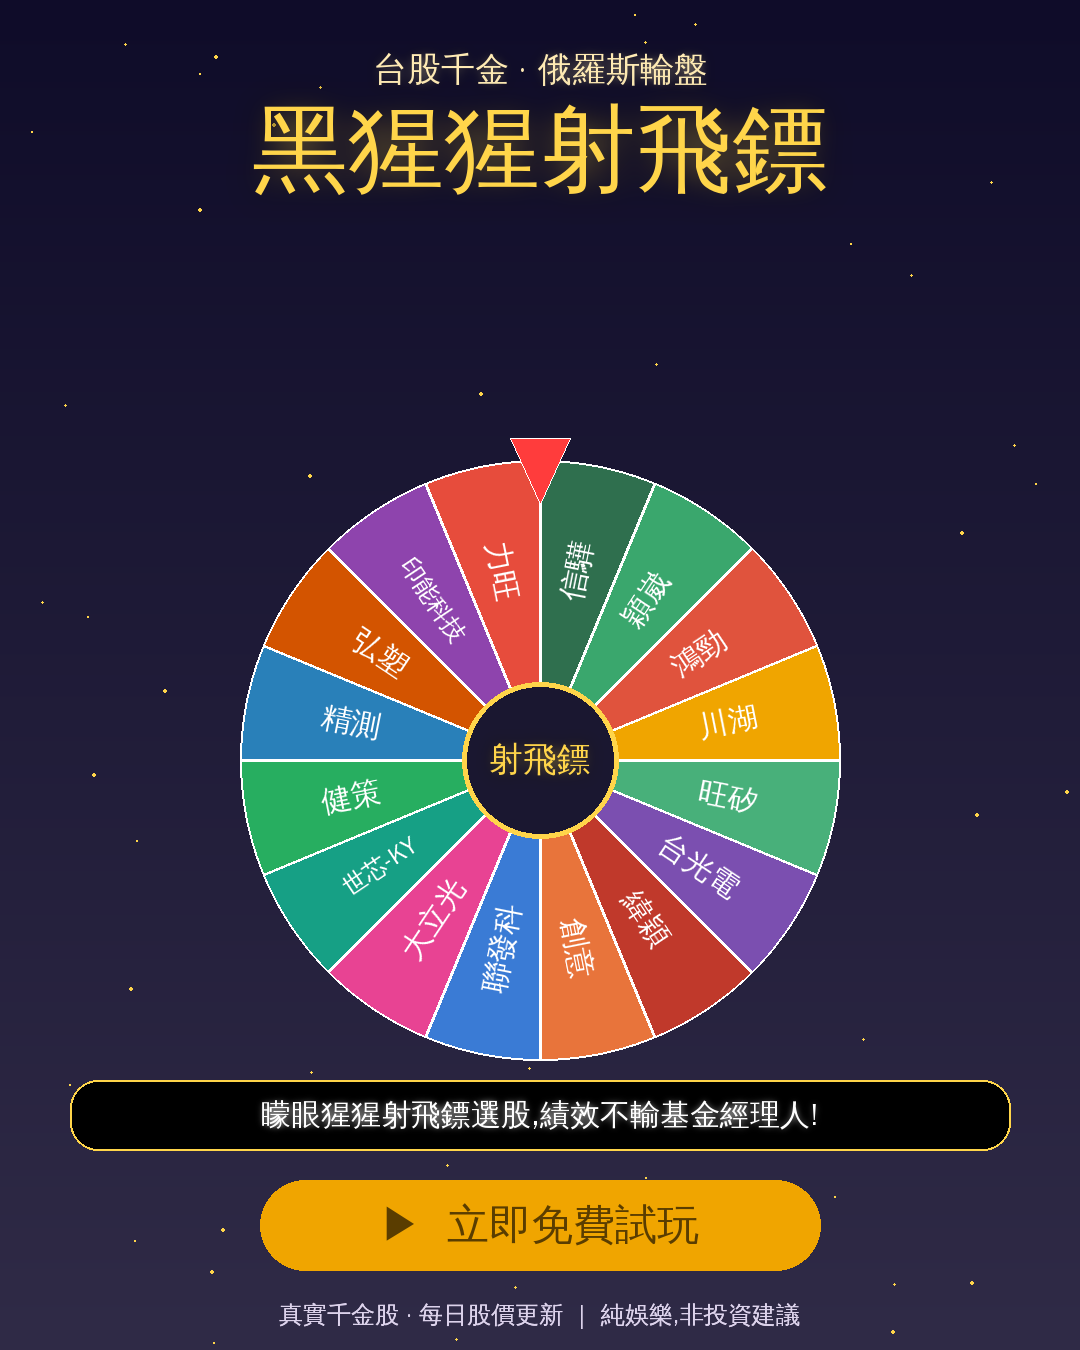
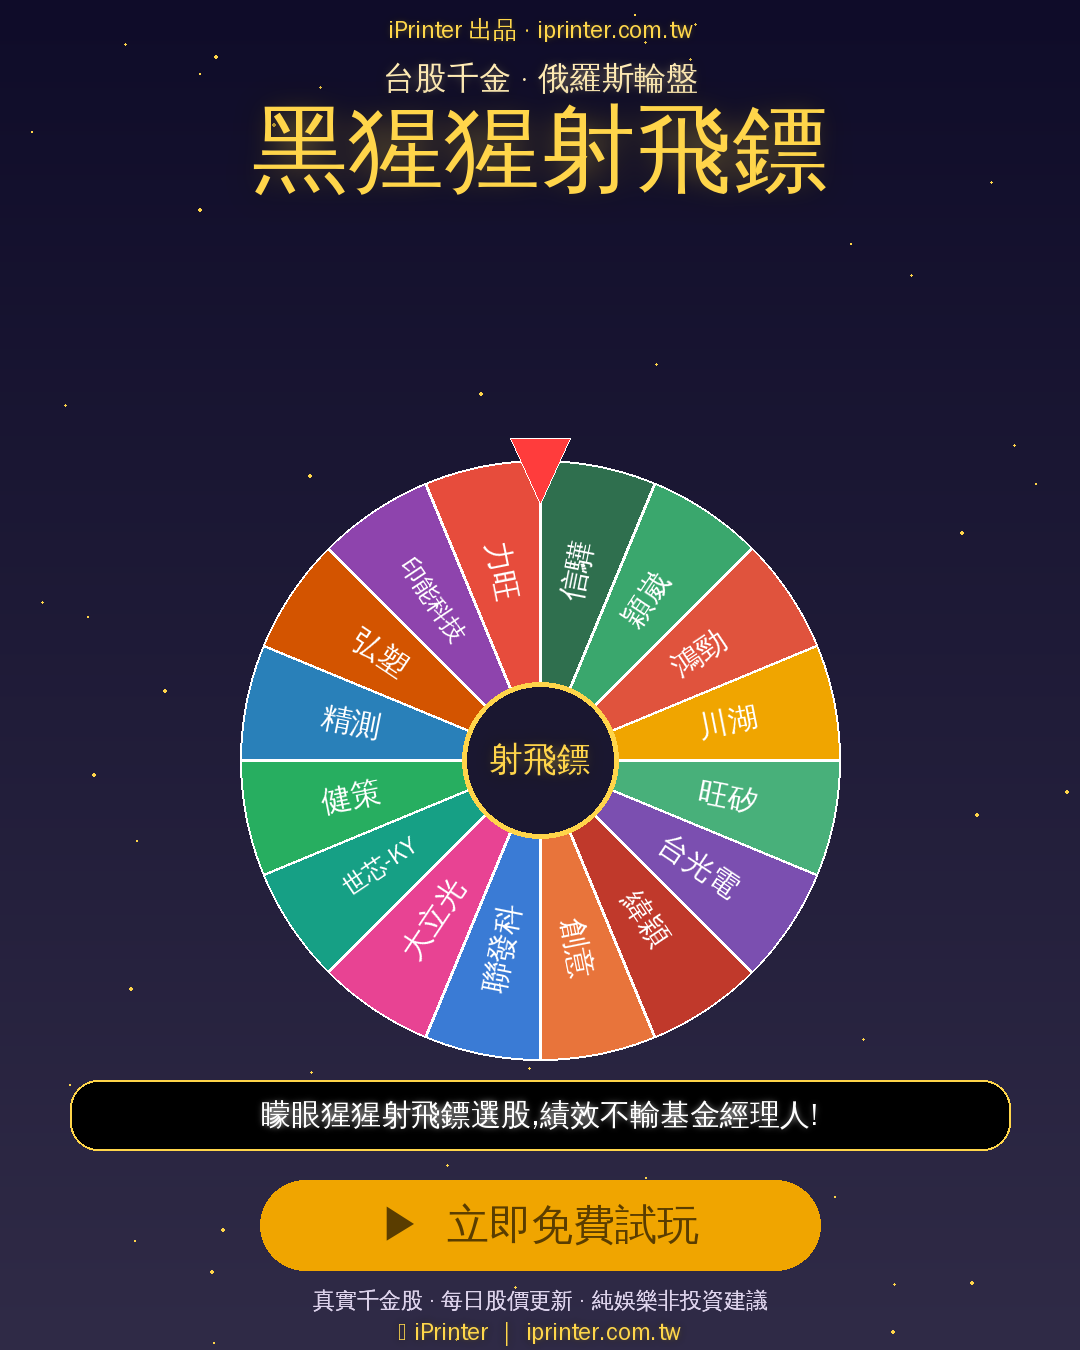
加入 iPrinter 品牌與官網連結(遊戲頁/招財卡/海報/貼文)
- 遊戲側欄加品牌連結列、招財卡加 iPrinter ｜ iprinter.com.tw
- 宣傳海報加上下品牌列、PROMO 貼文加官網
- 準備以 iPrinter 網域上線(上傳單檔 index.html 即可)

Changed region(s): [[0.2444, 0.9333, 0.7333, 0.9956], [0.3361, 0.0, 0.6722, 0.0933]]

diff --git a/game/index.html b/game/index.html
@@ -151,6 +151,9 @@
     .history li .h-name { font-weight: 700; }
     .history li .h-shares { color: var(--gold); }
     .disclaimer { margin: 16px 0 0; font-size: 12px; opacity: 0.6; }
+    .brand-link { display: block; margin-top: 10px; text-align: center; font-size: 13px;
+      font-weight: 700; color: var(--gold); text-decoration: none; opacity: 0.95; }
+    .brand-link:hover { text-decoration: underline; }
 
     .reveal-overlay {
       position: fixed; inset: 0; display: none; align-items: center; justify-content: center;
@@ -393,6 +396,7 @@
           <button class="sound-toggle" id="shareBtn">📤 分享</button>
         </div>
         <p class="disclaimer">⚠️ 純屬娛樂模擬,不構成任何投資建議。</p>
+        <a class="brand-link" href="https://iprinter.com.tw/" target="_blank" rel="noopener">本遊戲由 iPrinter 提供 ｜ 官網 iprinter.com.tw →</a>
       </aside>
     </main>
   </div>
@@ -887,6 +891,7 @@
       t("願君選股如有神助,黑猩猩祝你", 270, 1716, "26px " + FS, "#ffe9bf", "left");
       t("滿載而歸、財源滾滾 🧧", 270, 1756, "bold 30px " + FS, "#ffd700", "left");
       t(`資料日期 ${dateStr}(收盤價)· 純屬娛樂模擬,不構成投資建議`, 270, 1800, "20px " + FB, "#e7c98a", "left");
+      t("iPrinter ｜ iprinter.com.tw", W / 2, 1858, "bold 24px " + FB, "#ffd700", "center");
 
       const a = document.createElement("a");
       a.href = cv.toDataURL("image/png");

diff --git a/game/PROMO.md b/game/PROMO.md
@@ -26,8 +26,9 @@
 (純屬娛樂,不構成投資建議喔!)
 
 👉 立即試玩:【你的遊戲連結】
+🏢 by iPrinter ｜ 官網:https://iprinter.com.tw
 
-#台股 #千金股 #黑猩猩射飛鏢 #漫步華爾街 #隨機選股 #小遊戲 #理財 #台積電 #投資理財 #解壓小遊戲
+#台股 #iPrinter #千金股 #黑猩猩射飛鏢 #漫步華爾街 #隨機選股 #小遊戲 #理財 #台積電 #投資理財 #解壓小遊戲
 
 ---
 